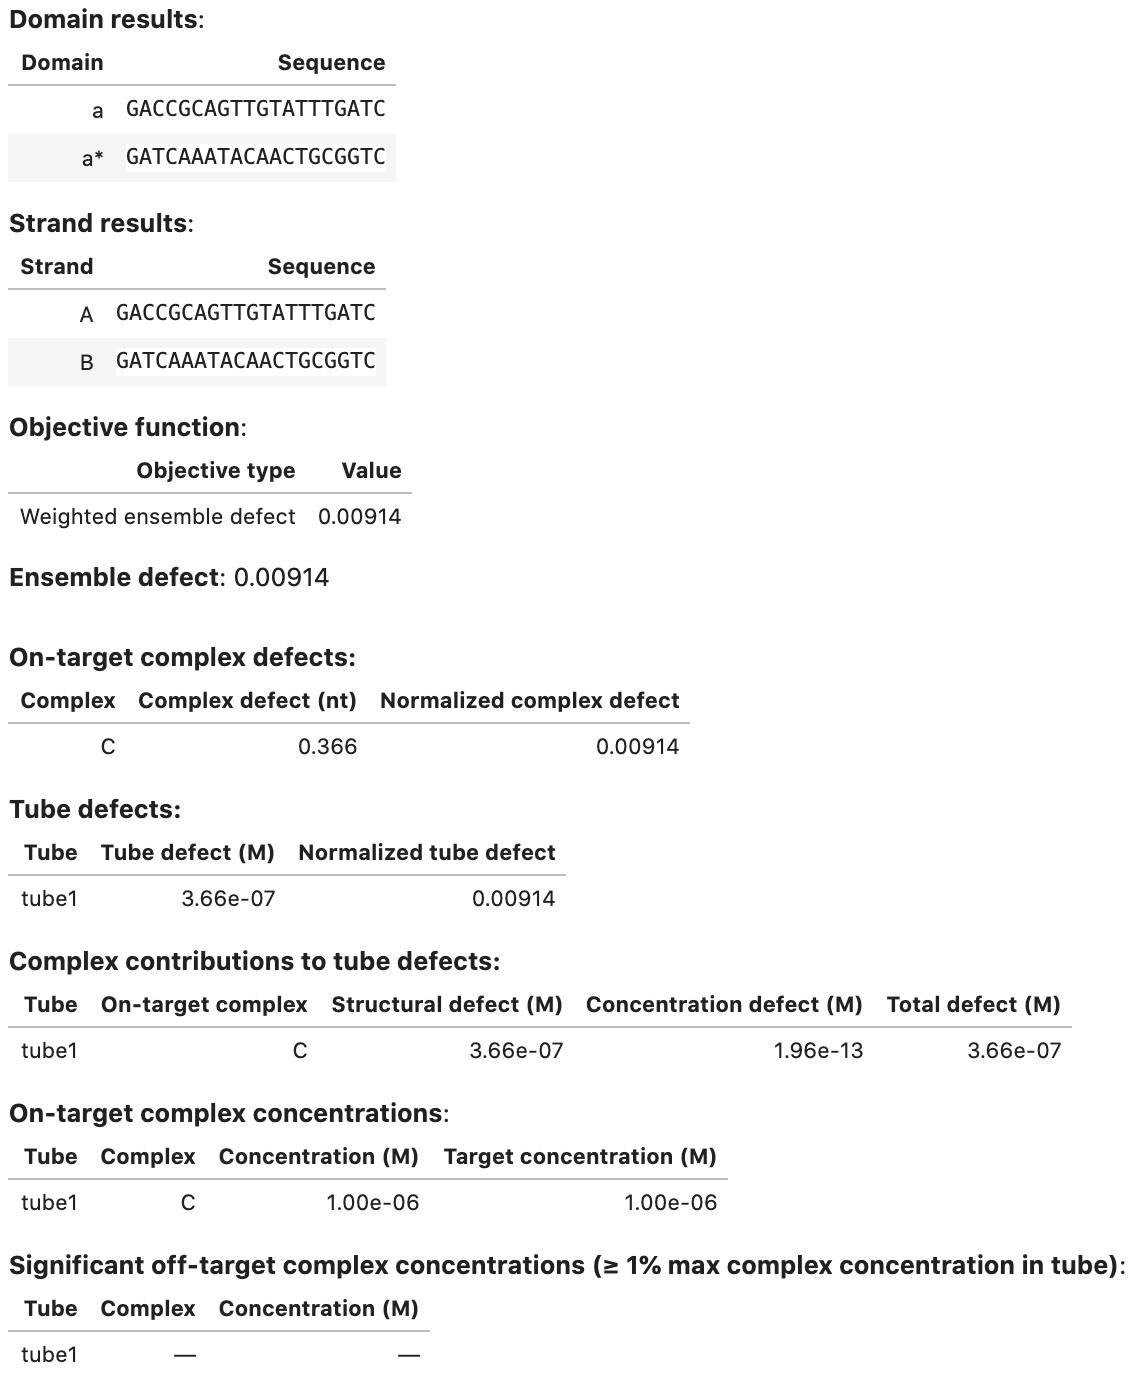
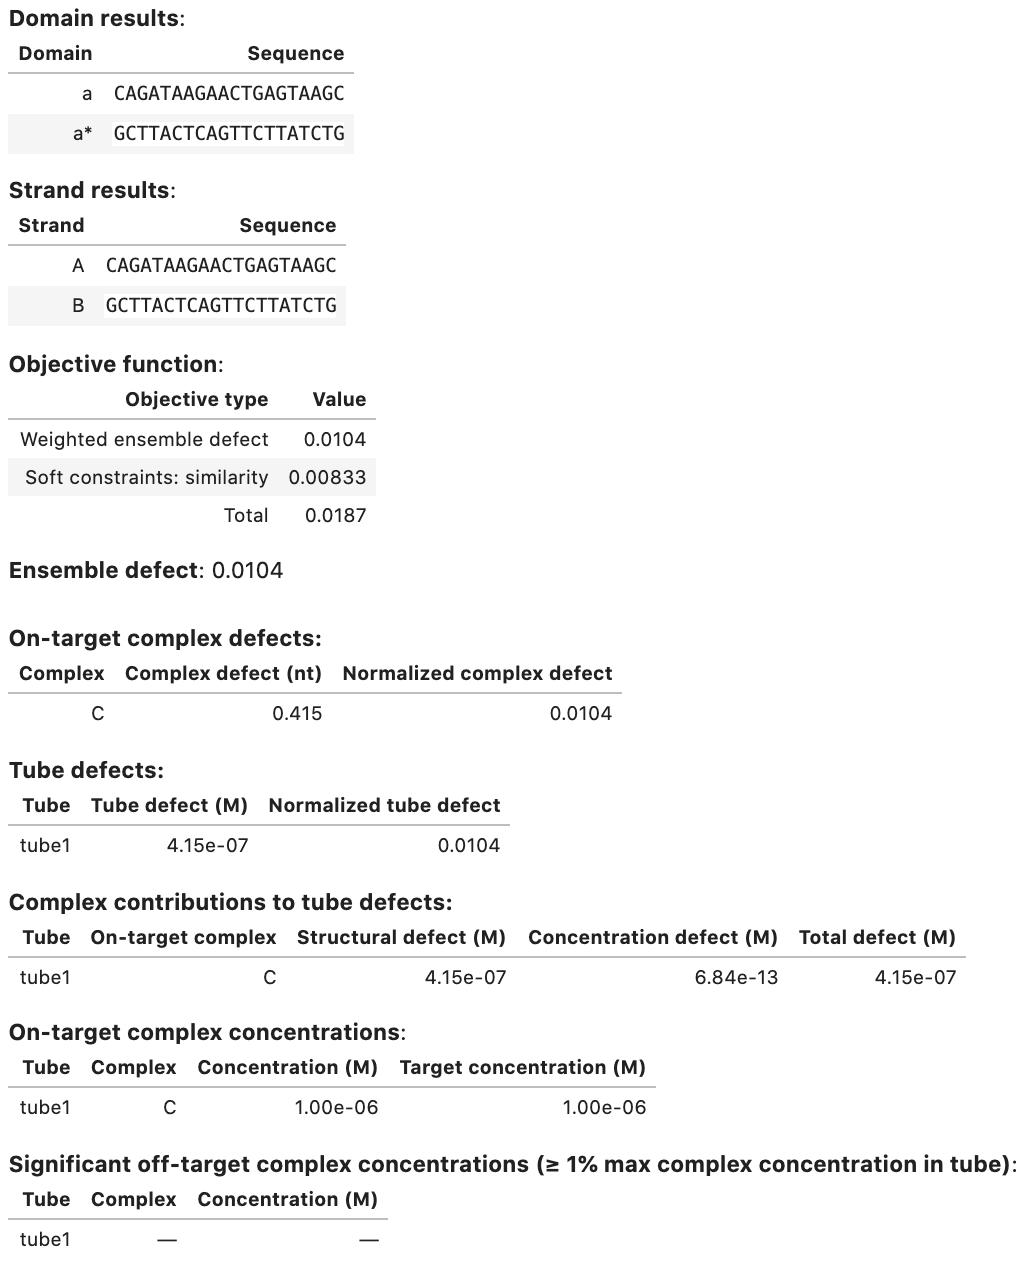
Add soft and hard constraint to example design

Changed region(s): [[0.0, 0.0, 0.6238, 0.5844], [0.0, 0.5844, 0.9357, 1.0], [0.655, 0.892, 0.9981, 0.9227]]

diff --git a/sources/design.md b/sources/design.md
@@ -279,6 +279,9 @@ my_jobs = my_design.launch(trials=2, checkpoint='my_checkpoints',
 
 ### Evaluate a design
 
+!!!warning
+    `evaluate()` should not be used for designs containing wobble pairs (any parameter sets `rna*.json` or `dna04-nupack3.json`).
+
 The `evaluate()` method enables generation of a `DesignResult` object for a `tube_design` that has fully specified sequences (i.e., contains no [degenerate nucleotide codes](definitions.md#degenerate-nucleotide-codes)), for example:
 
 ```python
@@ -898,7 +901,10 @@ C = TargetComplex([A, B], '(20+)20', name='C')
 
 tube1 = TargetTube({C: 1e-6}, max_size=2, name='tube1')
 
-my_design = tube_design([tube1], model=Model())
+soft = [Similarity([a], 'S20', limits=[0.45,0.55], weight=0.05)]
+hard = [Diversity(word=4, types=2, scope=[a])]
+
+my_design = tube_design([tube1], model=Model(), soft_constraints=soft, hard_constraints=hard)
 my_result = my_design.run(trials=1)[0]
 ```
 
@@ -926,29 +932,32 @@ Output:
 > ```
 > Domain results:
 > Domain              Sequence
->      a  GCATTGAGAAAACGCAAGAG
+>      a  CAGATAAGAACTGAGTAAGC
+>     a*  GCTTACTCAGTTCTTATCTG
 >
 > Strand results:
 > Strand              Sequence
->      A  GCATTGAGAAAACGCAAGAG
->      B  CTCTTGCGTTTTCTCAATGC
+>      A  CAGATAAGAACTGAGTAAGC
+>      B  GCTTACTCAGTTCTTATCTG
 >
 > Objective function:
->            Objective type  Value
->  Weighted ensemble defect 0.0112
+>                Objective type   Value
+>      Weighted ensemble defect  0.0104
+>  Soft constraints: similarity 0.00833
+>                         Total  0.0187
 >
-> Ensemble defect: 0.0112
+> Ensemble defect: 0.0104
 >
 > Complex Complex defect (nt) Normalized complex defect
->       C               0.448                    0.0112
+>       C               0.415                    0.0104
 >
 > On-target complex defects:
 >   Tube Tube defect (M) Normalized tube defect
->  tube1        4.48e-07                 0.0112
+>  tube1        4.15e-07                 0.0104
 >
 > Tube defects:
 >   Tube On-target complex Structural defect (M) Concentration defect (M) Total defect (M)
->  tube1                 C              4.48e-07                 1.71e-12         4.48e-07
+>  tube1                 C              4.15e-07                 6.84e-13         4.15e-07
 >
 > On-target complex concentrations:
 >   Tube Complex Concentration (M) Target concentration (M)
